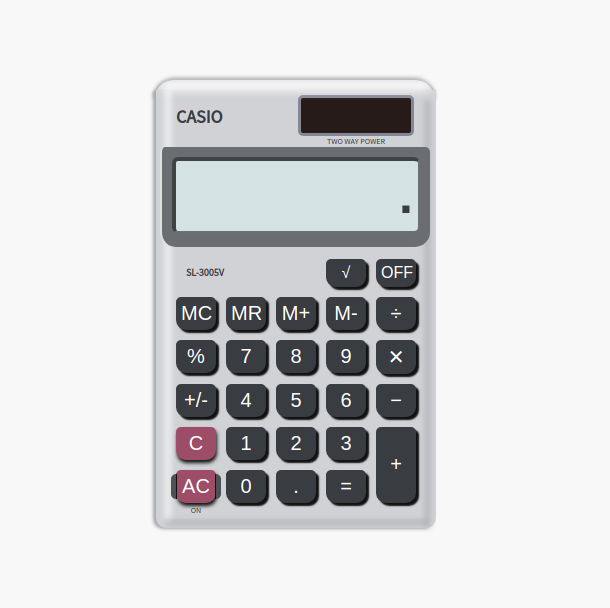
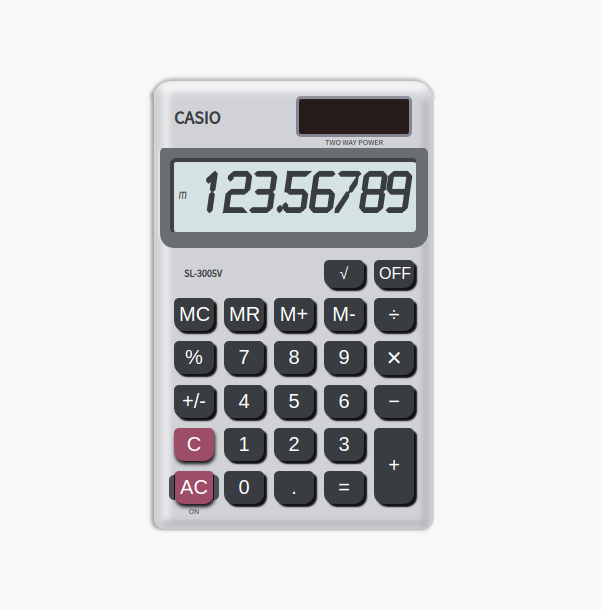
10 digit limited, demo image changed, ttf webpack to fileloader

Changed region(s): [[0.2696, 0.125, 0.7488, 0.875], [0.2696, 0.1562, 0.3894, 0.2188], [0.2995, 0.4375, 0.3894, 0.4688]]

diff --git a/src/modules/Calculator/logic/calculate.js b/src/modules/Calculator/logic/calculate.js
@@ -27,7 +27,7 @@ function addDigit(result_state, digit) {
     let message = result_state.message;
     if (changing_operand.toString() === "0" && digit !== ".") {
         changing_operand = [digit];
-    } else {
+    } else if (changing_operand.length < 9) {
         changing_operand.push(digit);
     }
 
@@ -152,8 +152,8 @@ function compute(result_state) {
     }
 
     if (!error && result) {
-        display_text = result;
-        operand_1 = result.toString().substring(0, 9).split("");
+        display_text = result.toString().substring(0, 9);
+        operand_1 = display_text.split("");
         operand_2 = [];
     }
 

diff --git a/webpack.config.prod.js b/webpack.config.prod.js
@@ -92,10 +92,10 @@ export default {
 				test: /\.[ot]tf(\?v=\d+.\d+.\d+)?$/,
 				use: [
 					{
-						loader: 'url-loader',
+						loader: 'file-loader',
 						options: {
 							limit: 10000,
-							mimetype: 'application/octet-stream',
+							// mimetype: 'application/octet-stream',
 							name: '[name].[ext]'
 						}
 					}

diff --git a/src/modules/Calculator/index.js b/src/modules/Calculator/index.js
@@ -54,7 +54,6 @@ class Calculator extends Component {
         const { calculator_details } = this.props;
         let result = calculate(buttonName, operation, calculator_details);
         this.props.actions.setCalculatorState(result);
-        // this.setState(calculate(this.state, buttonName));
     };
 
     render() {

diff --git a/README.md b/README.md
@@ -2,7 +2,7 @@
 React calculator is an application developed using React-Redux-HTML5-CSS3-SASS frameworks which tries to implement a retro calculator functionalities and to host it online.
 
 # [Demo](https://noushad-pp.github.io/react-calculator)
-![alt text](https://res.cloudinary.com/noushadpp/image/upload/v1534345765/personal/calculator.png)
+![alt text](https://res.cloudinary.com/noushadpp/image/upload/v1534347137/projects-related/calculator.png)
 
 
 ## setup
